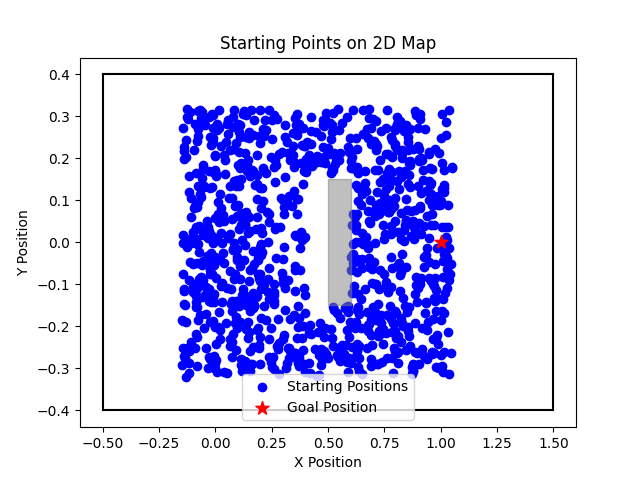
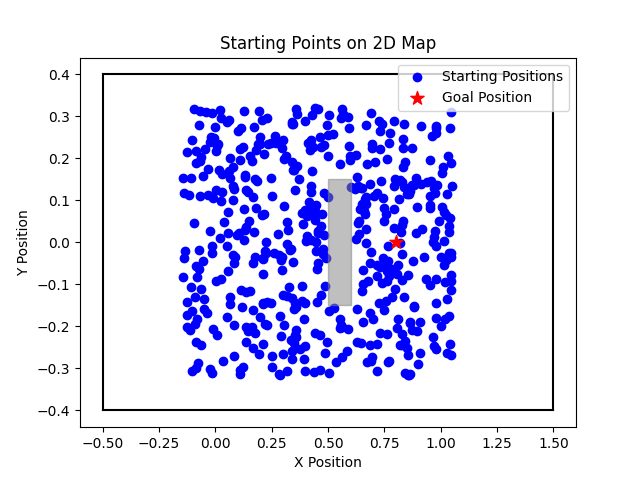
updates

Changed region(s): [[0.2812, 0.125, 0.875, 0.875], [0.8438, 0.2188, 0.875, 0.25]]

diff --git a/src/movement.py b/src/movement.py
@@ -13,50 +13,54 @@ import torch
 from datetime import datetime
 
 class ActorNetwork(nn.Module):
-    def __init__(self, input_dim, hidden_dim1, hidden_dim2, output_dim):
+    def __init__(self, input_dim, hidden_dim1, hidden_dim2, hidden_dim3, output_dim):
         super(ActorNetwork, self).__init__()
         self.fc1 = nn.Linear(input_dim, hidden_dim1)
         self.fc2 = nn.Linear(hidden_dim1, hidden_dim2)
-        self.fc_mu = nn.Linear(hidden_dim2, output_dim)
-        self.fc_sigma = nn.Linear(hidden_dim2, output_dim)
+        self.fc3 = nn.Linear(hidden_dim2, hidden_dim3)
+        self.fc_mu = nn.Linear(hidden_dim3, output_dim)
+        self.fc_sigma = nn.Linear(hidden_dim3, output_dim)
         self.initialize_weights()
 
     def initialize_weights(self):
-        for layer in [self.fc1, self.fc2, self.fc_mu, self.fc_sigma]:
+        for layer in [self.fc1, self.fc2, self.fc3, self.fc_mu, self.fc_sigma]:
             nn.init.xavier_uniform_(layer.weight)
             nn.init.zeros_(layer.bias)
 
     def forward(self, state):
         x = torch.relu(self.fc1(state))
         x = torch.relu(self.fc2(x))
+        x = torch.relu(self.fc3(x))
         mu = torch.tanh(self.fc_mu(x))  
         sigma = F.softplus(self.fc_sigma(x)) + 1e-5
         return mu, sigma
 
 class CriticNetwork(nn.Module):
-    def __init__(self, input_dim, hidden_dim1, hidden_dim2):
+    def __init__(self, input_dim, hidden_dim1, hidden_dim2, hidden_dim3):
         super(CriticNetwork, self).__init__()
         self.fc1 = nn.Linear(input_dim, hidden_dim1)
         self.fc2 = nn.Linear(hidden_dim1, hidden_dim2)
-        self.fc_value = nn.Linear(hidden_dim2, 1)
+        self.fc3 = nn.Linear(hidden_dim2, hidden_dim3)
+        self.fc_value = nn.Linear(hidden_dim3, 1)
         self.initialize_weights()
 
     def initialize_weights(self):
-        for layer in [self.fc1, self.fc2, self.fc_value]:
+        for layer in [self.fc1, self.fc2, self.fc3, self.fc_value]:
             nn.init.xavier_uniform_(layer.weight)
             nn.init.zeros_(layer.bias)
 
     def forward(self, state):
         x = torch.relu(self.fc1(state))
         x = torch.relu(self.fc2(x))
+        x = torch.relu(self.fc3(x))
         value = self.fc_value(x)
         return value
 
 class ActorCriticModel(nn.Module):
-    def __init__(self, input_dim, hidden_dim1, hidden_dim2, action_dim):
+    def __init__(self, input_dim, hidden_dim1, hidden_dim2, hidden_dim3, action_dim):
         super(ActorCriticModel, self).__init__()
-        self.actor = ActorNetwork(input_dim, hidden_dim1, hidden_dim2, action_dim)
-        self.critic = CriticNetwork(input_dim, hidden_dim1, hidden_dim2)
+        self.actor = ActorNetwork(input_dim, hidden_dim1, hidden_dim2, hidden_dim3, action_dim)
+        self.critic = CriticNetwork(input_dim, hidden_dim1, hidden_dim2, hidden_dim3)
 
     def forward(self, state):
         mu, sigma = self.actor(state)
@@ -66,7 +70,7 @@ class ActorCriticModel(nn.Module):
 def sample_action(mu, sigma):
     dist = torch.distributions.Normal(mu, sigma)
     action = dist.sample()
-    return action.clamp(-1, 1), dist
+    return action.clamp(-5, 5), dist
 
 def actor_critic_training(
     model,
@@ -97,6 +101,7 @@ def actor_critic_training(
         window, camera, scene, context, viewport, option = init_mujoco_render(mujoco_model)
 
     goal_state = np.array([goal_position[0], goal_position[1], 0.0, 0.0])
+    
     for episode in range(num_episodes):
         
         if fixed:
@@ -141,13 +146,15 @@ def actor_critic_training(
             with torch.no_grad():
                 next_value = model.critic(next_state_tensor)
 
-            # compute advantage
-            advantage = reward + gamma * next_value - value 
-
-            # compute losses
-            critic_loss = advantage.pow(2).mean()
+            td_target = reward + gamma * next_value
+            advantage = td_target - value
+            critic_loss = F.mse_loss(value, td_target.detach())
             actor_loss = -(advantage.detach() * log_prob).mean()
 
+            # entropy bonus
+            entropy = dist.entropy().mean()
+            actor_loss -= 0.01 * entropy  # 0.01 is the entropy coefficient
+            
             # backpropagation
             critic_optimizer.zero_grad()
             actor_optimizer.zero_grad()
@@ -173,8 +180,8 @@ def actor_critic_training(
             
             state = next_state
 
-        # stre the total reward for the episode
-        episode_rewards.append(total_reward)
+        # store the total reward for the episode
+        episode_rewards.append(total_reward/t if t > 0 else 0)
         if episode % log_interval == 0:
             print(f"Episode {episode}, Total Reward: {total_reward}")
 
@@ -183,9 +190,9 @@ def actor_critic_training(
 
     if plot:
         plt.figure(figsize=(10, 6))
-        plt.plot(episode_rewards, label="Total Reward per Episode")
+        plt.plot(episode_rewards, label="Avg. Reward per Episode")
         plt.xlabel("Episode")
-        plt.ylabel("Total Reward")
+        plt.ylabel("Avg. Reward")
         plt.title("Learning Curve")
         plt.legend()
         plt.show()
@@ -194,27 +201,18 @@ def actor_critic_training(
     return model
 
 def calculate_reward(state, goal_position, epsilon, walls, outside_walls):
-    
-    # penalize distance from the goal
+
     distance_to_goal = np.linalg.norm(state[:2] - goal_position)
-    reward = -distance_to_goal * .9
-
-    # reward for reaching the goal
+    reward = 1 / (distance_to_goal + 1e-5)  # Avoid division by zero
     if distance_to_goal <= epsilon:
-        reward += 1000.0 
-  
-    # penalize each time step slightly
-    reward -= 2    
-
+        reward += 1.0
     return reward
 
 def transition(state, action, dt=0.01):
     
     x, y, vx, vy = state
     fx, fy = action
-
     noise_x, noise_y = np.random.normal(0, 0.1, 2)
-    
     new_vx = vx + (fx - noise_x) * dt
     new_vy = vy + (fy - noise_y) * dt
     new_x = x + new_vx * dt
@@ -225,7 +223,6 @@ def transition(state, action, dt=0.01):
 def plot_starting_points(starting_positions, goal_position, outside_walls, walls):
 
     plt.figure()
-
     starting_positions = np.array(starting_positions)
     plt.scatter(starting_positions[:, 0], starting_positions[:, 1], color='blue', label='Starting Positions')
     plt.scatter(goal_position[0], goal_position[1], color='red', marker='*', s=100, label='Goal Position')
@@ -317,8 +314,8 @@ def main():
     
     goal_position = np.array([0.8, 0.0])  
     epsilon = 0.2 
-    alpha = 1e-5  
-    beta = 1e-5   
+    alpha = 1e-6  
+    beta = 1e-6   
     total_episodes = 0
 
     walls = [
@@ -333,7 +330,7 @@ def main():
 
     mujoco_model = mujoco.MjModel.from_xml_path("ball_square.xml")
     mujoco_data = mujoco.MjData(mujoco_model)
-    model = ActorCriticModel(input_dim=4, hidden_dim1=256, hidden_dim2=128, action_dim=2)
+    model = ActorCriticModel(input_dim=4, hidden_dim1=256, hidden_dim2=128, hidden_dim3=64, action_dim=2)
     
     while True:
         print("\nMenu:")
@@ -356,7 +353,7 @@ def main():
                 goal_position=goal_position,
                 walls=walls,
                 outside_walls=outside_walls,
-                num_episodes=1,
+                num_episodes=3,
                 max_steps=1800,
                 gamma=0.99,
                 alpha=alpha,
@@ -371,14 +368,14 @@ def main():
             total_episodes += 1
         elif choice == 2:
             print("Training the network...")
-            num_training_episodes = 500
+            num_training_episodes = 10000
             model = actor_critic_training(
                 model=model,
                 goal_position=goal_position,
                 walls=walls,
                 outside_walls=outside_walls,
                 num_episodes=num_training_episodes,
-                max_steps=1500,
+                max_steps=3600,
                 gamma=0.99,
                 alpha=alpha,
                 beta=beta,
@@ -398,8 +395,8 @@ def main():
                 num_episodes=1,
                 max_steps=3600,
                 gamma=0.99,
-                alpha=1e-6,
-                beta=1e-6,
+                alpha=1e-2,
+                beta=1e-2,
                 log_interval=1,
                 render=True,
                 mujoco_model=mujoco_model,
@@ -410,6 +407,7 @@ def main():
             total_episodes += 1
         elif choice == 4:
             print("Goodbye!")
+            save_model(model, total_episodes)
             break
         else:
             print("Invalid choice. Please select from the menu.")
